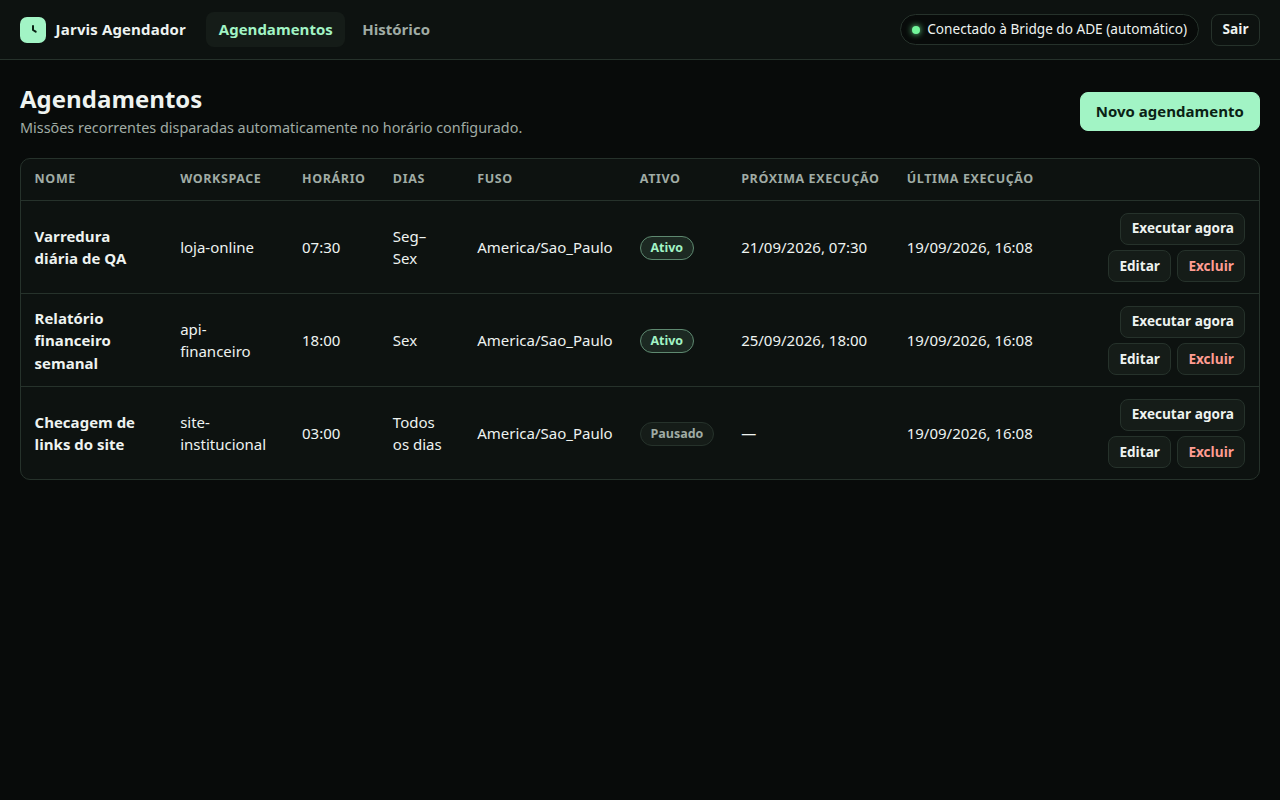
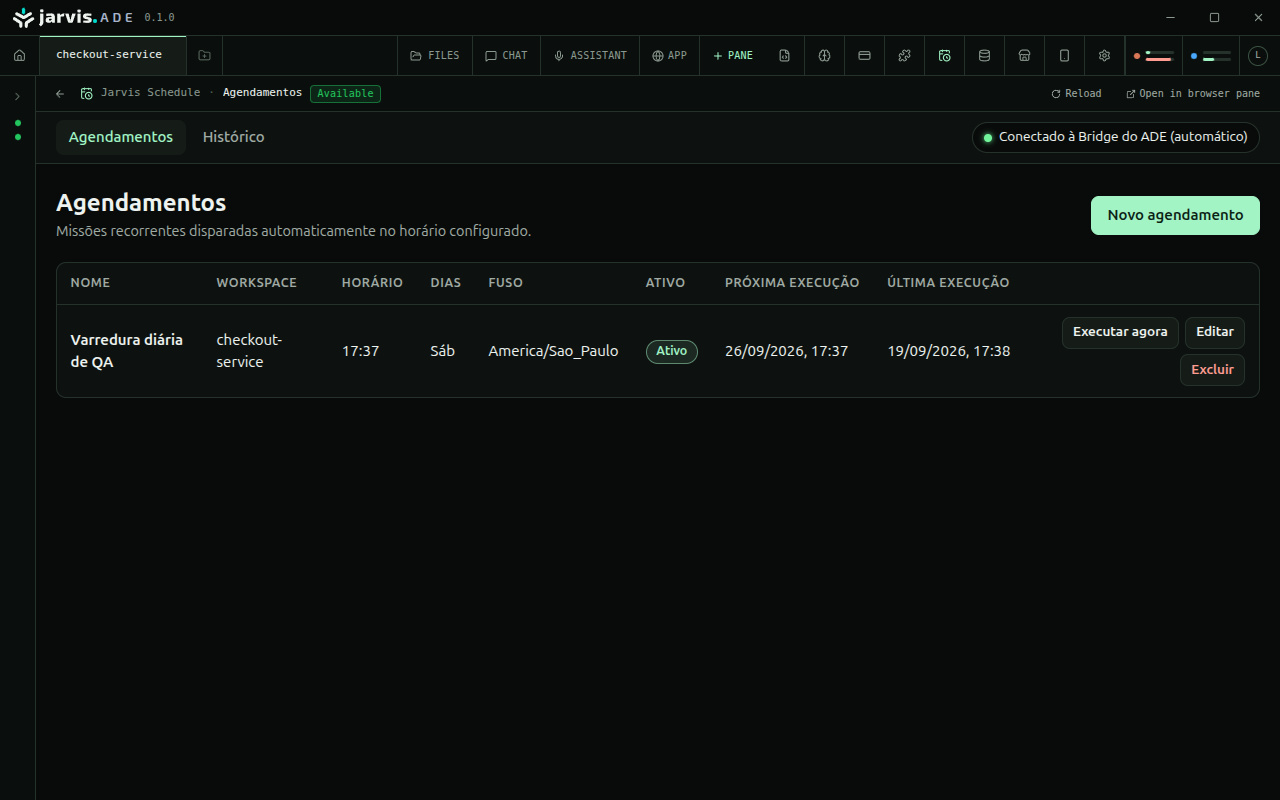
chore(release): 1.0.0 — in-app listing screenshots, responsive tables, CHANGELOG
- marketplace: replace the browser captures with 4 in-app ones (agendamentos, formulário squad/modelos, histórico, plugins instalados); listing.md captions updated, in-app TODO removed
- ui: tables stack into cards by container width (main is a size container, ≤1140px), long names/workspaces wrap on a bounded width, headers/dates wrap, history filter no longer overflows; fixes hidden row actions with ADE's missions sidebar open
- GUIDELINES: stale screenshot-size/validator lines, version 1.0.0
- version 1.0.0 in ade.plugin.json + package.json + lock; CHANGELOG.md (pt-BR); adeVersion stays 0.4.0

diff --git a/ui/app.js b/ui/app.js
@@ -517,16 +517,16 @@ async function schedulesView(main, ctx) {
           { 'data-schedule-id': s.id },
           h(
             'td',
-            { 'data-label': 'Nome' },
+            { 'data-label': 'Nome', class: 'cell-name' },
             h('span', {}, h('span', { class: 'cell-title' }, s.name)),
           ),
-          h('td', { 'data-label': 'Workspace' }, s.workspaceName ?? s.workspaceId),
+          h('td', { 'data-label': 'Workspace', class: 'cell-ws' }, s.workspaceName ?? s.workspaceId),
           h('td', { 'data-label': 'Horário', class: 'nowrap' }, s.time),
           h('td', { 'data-label': 'Dias' }, fmtDays(s.days)),
           h('td', { 'data-label': 'Fuso' }, s.timezone),
           h('td', { 'data-label': 'Ativo' }, s.enabled ? h('span', { class: 'badge badge-ok' }, 'Ativo') : h('span', { class: 'badge' }, 'Pausado')),
-          h('td', { 'data-label': 'Próxima execução', class: 'nowrap' }, s.enabled ? fmtDate(s.nextRunAt) : '—'),
-          h('td', { 'data-label': 'Última execução', class: 'nowrap' }, fmtDate(s.lastRunAt)),
+          h('td', { 'data-label': 'Próxima execução' }, s.enabled ? fmtDate(s.nextRunAt) : '—'),
+          h('td', { 'data-label': 'Última execução' }, fmtDate(s.lastRunAt)),
           h(
             'td',
             { class: 'actions' },
@@ -1085,12 +1085,12 @@ async function runsView(main, ctx, scheduleFilter) {
           h(
             'tr',
             { 'data-run-id': r.id },
-            h('td', { 'data-label': 'Agendamento' }, h('span', { class: 'cell-title' }, r.scheduleName)),
+            h('td', { 'data-label': 'Agendamento', class: 'cell-name' }, h('span', { class: 'cell-title' }, r.scheduleName)),
             h('td', { 'data-label': 'Origem' }, triggerLabel(r.trigger)),
-            h('td', { 'data-label': 'Previsto para', class: 'nowrap' }, fmtDate(r.scheduledFor)),
-            h('td', { 'data-label': 'Disparado em', class: 'nowrap' }, fmtDate(r.dispatchedAt)),
+            h('td', { 'data-label': 'Previsto para' }, fmtDate(r.scheduledFor)),
+            h('td', { 'data-label': 'Disparado em' }, fmtDate(r.dispatchedAt)),
             h('td', { 'data-label': 'Status' }, runBadge(r.status)),
-            h('td', { 'data-label': 'Missão' }, r.missionName ?? '—'),
+            h('td', { 'data-label': 'Missão', class: 'cell-ws' }, r.missionName ?? '—'),
             h('td', { class: 'actions' }, h('a', { class: 'btn btn-sm', href: `#/runs/${enc(r.id)}`, 'aria-label': `Ver detalhes do disparo de ${r.scheduleName}` }, 'Detalhes')),
           ),
         ),

diff --git a/ui/styles.css b/ui/styles.css
@@ -184,6 +184,7 @@ h2 {
 }
 
 main {
+  container: page / inline-size;
   max-width: 1320px;
   margin: 0 auto;
   padding: 1.5rem 1.25rem 4rem;
@@ -313,11 +314,14 @@ input[type='time'] {
   display: flex;
   align-items: center;
   gap: 0.5rem;
+  max-width: 100%;
 }
 .filter select {
   width: auto;
-  min-width: 220px;
+  min-width: 0;
   max-width: 100%;
+  flex: 0 1 auto;
+  text-overflow: ellipsis;
 }
 
 /* ---- cards / alerts ---------------------------------------------------------------- */
@@ -427,7 +431,7 @@ table {
 }
 th,
 td {
-  padding: 0.7rem 0.85rem;
+  padding: 0.7rem 0.7rem;
   text-align: left;
   vertical-align: middle;
   border-bottom: 1px solid var(--border);
@@ -438,7 +442,6 @@ th {
   letter-spacing: 0.05em;
   color: var(--muted);
   font-weight: 650;
-  white-space: nowrap;
 }
 tbody tr:last-child td {
   border-bottom: 0;
@@ -458,6 +461,14 @@ td.actions {
 }
 .cell-title {
   font-weight: 650;
+  overflow-wrap: break-word;
+}
+/* long names/workspaces wrap on a bounded width instead of stretching the table */
+td.cell-name,
+td.cell-ws {
+  min-width: 8rem;
+  max-width: 18rem;
+  overflow-wrap: break-word;
 }
 .cell-sub {
   display: block;
@@ -864,7 +875,36 @@ dialog p {
     text-align: center;
   }
 
-  /* tables collapse into stacked cards, labelled through data-label */
+  .detail-grid {
+    grid-template-columns: 1fr;
+    gap: 0.1rem;
+  }
+  .detail-grid dd {
+    margin-bottom: 0.6rem;
+  }
+  .filter {
+    width: 100%;
+  }
+  .filter select {
+    flex: 1;
+    min-width: 0;
+  }
+  .toasts {
+    justify-items: stretch;
+  }
+  .toast {
+    max-width: none;
+  }
+}
+
+/* Tables collapse into stacked cards, labelled through data-label, when the PAGE (not the window) is narrow:
+   inside ADE the window is wide but the missions sidebar eats ~260px of it, so a viewport breakpoint misses it. */
+@container page (max-width: 1140px) {
+  td.cell-name,
+  td.cell-ws {
+    min-width: 0;
+    max-width: none;
+  }
   .table-wrap {
     border: 0;
     background: transparent;
@@ -926,24 +966,4 @@ dialog p {
     min-width: 0;
   }
 
-  .detail-grid {
-    grid-template-columns: 1fr;
-    gap: 0.1rem;
-  }
-  .detail-grid dd {
-    margin-bottom: 0.6rem;
-  }
-  .filter {
-    width: 100%;
-  }
-  .filter select {
-    flex: 1;
-    min-width: 0;
-  }
-  .toasts {
-    justify-items: stretch;
-  }
-  .toast {
-    max-width: none;
-  }
 }

diff --git a/marketplace/GUIDELINES.md b/marketplace/GUIDELINES.md
@@ -1,6 +1,6 @@
 # Checklist das diretrizes de plugins do Jarvis ADE
 
-Fontes: páginas <https://jarvisade.com/docs/plugins/> (`manifesto`, `protocolo`, `configuracoes`, `boas-praticas`, `publicar`, `marketplace`, `cli`; **não existe** uma página `/docs/plugins/marketplace/guidelines`, essa rota dá 404), `backend/docs/marketplace/DESIGN.md`, `plugin-manifest.schema.ts` e as verificações automáticas de `backend/src/marketplace/checks/plugin-checks.service.ts` (staff-agent). Estado em 2026-09-19, versão 0.1.0.
+Fontes: páginas <https://jarvisade.com/docs/plugins/> (`manifesto`, `protocolo`, `configuracoes`, `boas-praticas`, `publicar`, `marketplace`, `cli`; **não existe** uma página `/docs/plugins/marketplace/guidelines`, essa rota dá 404), `backend/docs/marketplace/DESIGN.md`, `plugin-manifest.schema.ts` e as verificações automáticas de `backend/src/marketplace/checks/plugin-checks.service.ts` (staff-agent). Estado em 2026-09-19, versão 1.0.0.
 
 Legenda: ✅ atendido · ⏳ depende de uma ação de quem publica (nada foi enviado nem publicado).
 
@@ -9,11 +9,11 @@ Legenda: ✅ atendido · ⏳ depende de uma ação de quem publica (nada foi env
 | Verificação | Regra | Estado |
 | --- | --- | --- |
 | `repo-reachable` | repositório GitHub público, URL exata `https://github.com/<dono>/<repo>` | ⏳ o repo `Vidiio-Org/jarvis-schedule-plugin` precisa ser enviado (push) e estar público; a URL já está em `package.json`, no manifesto e na listagem |
-| `manifest-valid` | `ade.plugin.json` na raiz do repo, válido pelo schema | ✅ `jarvis-ade plugins validate .` → válido; único aviso: `contributes.views` desconhecida pelo CLI atual (ver a linha de `views` abaixo) |
+| `manifest-valid` | `ade.plugin.json` na raiz do repo, válido pelo schema | ✅ `jarvis-ade plugins validate .` (CLI do worktree `feature-plugin-host-views`, que conhece `views` e `bridge`) → válido, 0 avisos. O `jarvis-ade` publicado no npm ainda pode avisar `unknown key` em `contributes.views`: é só aviso |
 | `npm-package` / `npm-manifest` | (só se informar pacote npm) o pacote existe, tem `latest` e traz `ade.plugin.json` na raiz | ⏳ publicar `jarvis-plugin-schedule`; `npm pack --dry-run` confirma que o tarball leva `ade.plugin.json` na raiz (`files`) |
 | `npm-repository` | `repository` do pacote aponta para o mesmo repo da listagem | ✅ `git+https://github.com/Vidiio-Org/jarvis-schedule-plugin.git` |
 | `plugin-id-match` | mesmo `id` no manifesto do GitHub e do npm | ✅ um único arquivo, `jarvis-schedule` |
-| `version-consistency` | versão do manifesto = `package.json` = tag | ✅ 0.1.0 nos dois; `scripts/check-release.mjs` confere também a tag `v0.1.0` |
+| `version-consistency` | versão do manifesto = `package.json` = tag | ✅ 1.0.0 nos dois; `scripts/check-release.mjs` confere também a tag `v1.0.0` |
 | `runtime-dependencies` | sem `dependencies` (o instalador só copia arquivos) | ✅ só `devDependencies` |
 | `install-scripts` | sem `preinstall`/`install`/`postinstall` | ✅ nenhum |
 | `npm-keyword` | palavra-chave `jarvis-ade-plugin` | ✅ |
@@ -24,7 +24,7 @@ Legenda: ✅ atendido · ⏳ depende de uma ação de quem publica (nada foi env
 | Regra | Estado |
 | --- | --- |
 | `id` kebab-case `/^[a-z0-9]+(-[a-z0-9]+)*$/` | ✅ `jarvis-schedule` |
-| `name` (≥ 1), `version` semver | ✅ "Jarvis Schedule", `0.1.0` |
+| `name` (≥ 1), `version` semver | ✅ "Jarvis Schedule", `1.0.0` |
 | `description`, `author`, `homepage`, `license` (opcionais, mas exigidos pela nossa tarefa) | ✅ descrição, `Vidiio`, `https://github.com/Vidiio-Org/jarvis-schedule-plugin`, `MIT` |
 | `contributes.settings[].key` `/^[a-zA-Z][a-zA-Z0-9_]*$/`, `type` ∈ string/secret/boolean/number | ✅ 7 configurações, todas camelCase; nenhuma `select` |
 | `default` sempre string, inclusive em número/booleano | ✅ `"4870"`, `"90"`, `"true"` |
@@ -32,7 +32,7 @@ Legenda: ✅ atendido · ⏳ depende de uma ação de quem publica (nada foi env
 | `events`: `[]` ou sem filtro entrega **tudo** (não "nada") | ✅ o plugin não usa eventos de `board.*`/`mission.*` (acompanha as missões pela Bridge); o filtro foi reduzido a `["mission.finished"]` para não receber o `board.snapshot` de todas as missões à toa |
 | Campos obrigatórios (`required: true`) travam o início até serem preenchidos | ✅ nenhuma configuração é obrigatória: `bridgeToken` e `bridgeUrl` são só o fallback de um ADE mais antigo (ADE 0.4.0+ entrega a Bridge em `hello.host.bridge`), `dashboardToken` só serve para abrir o painel num navegador. Sem Bridge do host e sem `bridgeToken`, o plugin emite `error` e o motivo (`ADE_BRIDGE=1` + token) fica no log |
 | Integração com `"bridge": true` | ✅ declarada em `contributes.integrations[scheduler]`; o plugin usa `hello.host.bridge` para toda chamada (REST e SSE), troca as credenciais ao vivo num `hello` repetido e nunca as registra |
-| `contributes.views` (tela nativa "Agendamentos") | ✅ `dashboard`, `icon: calendar-clock`, `integration: scheduler`. ⚠ o validador do CLI ainda não conhece `views` e avisa `unknown key`: é aviso, não erro, e some quando o CLI aprender `views` |
+| `contributes.views` (tela nativa "Agendamentos") | ✅ `dashboard`, `icon: calendar-clock`, `integration: scheduler`; o CLI que conhece `views` valida sem avisos (versões mais antigas do CLI avisam `unknown key`, aviso e não erro) |
 | Segredos: tipo `secret`, nunca em log | ✅ `bridgeToken`, `dashboardToken` são `secret` e não são registrados |
 
 ## Pacote e repositório (`publicar`)
@@ -71,7 +71,7 @@ Legenda: ✅ atendido · ⏳ depende de uma ação de quem publica (nada foi env
 | --- | --- |
 | Nome 2–60, slug 3–39, resumo ≤ 120, categoria válida, ≤ 8 tags (≤ 24 caracteres, `[a-z0-9-]`), descrição ≤ 20.000 | ✅ `marketplace/listing.md` (com as contagens) |
 | Repositório GitHub no formato exato | ✅ |
-| Capa recomendada 1200×630, capturas até 8, PNG/JPEG/WebP até 5 MiB | ✅ `marketplace/cover.png` (1200×630) e 4 capturas 1280×800, todas < 100 KB |
+| Capa recomendada 1200×630, capturas até 8, PNG/JPEG/WebP até 5 MiB | ✅ `marketplace/cover.png` (1200×630) e 4 capturas 1280×800 tiradas dentro do ADE, cada uma com menos de 200 KB |
 | Instalação `npx -y jarvis-ade plugins add <handle>/<slug>` / importação pela UI (npm ou URL git) | ✅ README e listagem descrevem a instalação pelo Marketplace (ícone **Agendamentos**, sem configurar) e a importação por URL git enquanto a listagem não é aprovada; o comando `npx` passa a valer depois da aprovação |
 | Fluxo Pendente → verificações automáticas → aprovação de um admin | ⏳ com quem envia |
 

diff --git a/marketplace/listing.md b/marketplace/listing.md
@@ -18,16 +18,16 @@ Os limites abaixo vêm de `backend/src/marketplace/marketplace.constants.ts` (st
 | **Site** (opcional) | `https://github.com/Vidiio-Org/jarvis-schedule-plugin#readme` | HTTPS |
 | **Licença** | MIT | arquivo `LICENSE` na raiz |
 | **Capa** | `marketplace/cover.png` (1200×630, PNG) | recomendado 1200×630; PNG, JPEG ou WebP, até 5 MiB |
-| **Capturas de tela** | `marketplace/screenshots/*.png` (4 de até 8, PNG, 1280 px de largura; a 02 é a página inteira do formulário, 1280×1905) | até 5 MiB cada, legenda de até 140 caracteres |
+| **Capturas de tela** | `marketplace/screenshots/*.png` (4 de até 8, PNG, 1280×800, dentro do ADE) | até 5 MiB cada, legenda de até 140 caracteres |
 
 ### Legendas das capturas de tela
 
-1. `01-agendamentos.png` — Lista de agendamentos com horário, dias, fuso, próxima e última execução.
-2. `02-novo-agendamento.png` — Formulário completo: briefing, workspace, horário, fuso, squad, dias, anexos, maestro, modelos por agente, stack e E2E.
-3. `03-historico.png` — Histórico de disparos com origem, horário e status (Em execução, Concluído e Falhou).
-4. `04-detalhe-do-disparo.png` — Detalhe de um disparo: resumo final do maestro e tarefas com resultado.
+1. `01-agendamentos.png` — Tela **Agendamentos** dentro do ADE: horário, dias, fuso, próxima e última execução, com Executar agora, Editar e Excluir.
+2. `02-formulario-squad-modelos.png` — Formulário de novo agendamento: modelos permitidos, modelo por agente, stack e fluxo de teste E2E.
+3. `03-historico.png` — Histórico de disparos com origem, horário e status Concluído.
+4. `04-plugins-instalados.png` — Marketplace de Plugins → Instalados, com o Jarvis Schedule em execução e o botão Open Agendamentos.
 
-As capturas foram tiradas do painel de verdade (`dist/index.js` + `ui/`, iniciado como o ADE novo o inicia: Bridge entregue em `hello.host.bridge`) rodando contra a Bridge falsa do repositório (`test/fake-bridge.mjs`), aberto num navegador; os nomes de workspace, briefings e resumos são dados de demonstração. Por isso mostram o cabeçalho "Jarvis Agendador" e o botão **Sair**, que não aparecem na tela dentro do ADE.
+As quatro capturas foram tiradas **dentro do Jarvis ADE** (ADE 0.4.0, plugin instalado pela pasta, Bridge automática), com dados de demonstração: o workspace, o briefing e os resultados são fictícios.
 
 ## Descrição (Markdown, pt-BR)
 
@@ -75,15 +75,3 @@ Código aberto, licença MIT. Documentação completa no [README](https://github
 1. Publicar o pacote npm `jarvis-plugin-schedule` pelo fluxo de tag `vX.Y.Z` (`.github/workflows/publish.yml`, precisa do segredo `NPM_TOKEN`) e enviar o repositório ao GitHub. Sem o pacote, o cadastro vale só pela origem git.
 2. Conferir que `package.json`, `ade.plugin.json` e a tag têm a mesma versão (`npm run check-release`).
 3. Enviar o formulário com os campos acima e as imagens; a listagem entra como *Pendente* até a aprovação de um administrador.
-
-## Pendências (capturas dentro do app)
-
-As capturas atuais mostram o painel num navegador. A card final de E2E deve acrescentar capturas **dentro do ADE** (a lista abaixo é o que falta; quem publica só as adiciona à pasta `marketplace/screenshots/` e às legendas):
-
-- [ ] Barra lateral do ADE com o ícone **Agendamentos** ao lado do de Plugins.
-- [ ] Tela **Agendamentos** aberta dentro do app (sem cabeçalho "Jarvis Agendador" nem botão Sair, com "Conectado à Bridge do ADE (automático)").
-- [ ] Formulário de novo agendamento dentro do app, com squad e seletores de modelo.
-- [ ] Histórico com disparos **Em execução** e **Concluído** dentro do app.
-- [ ] Detalhe de um disparo (resumo do maestro e tarefas) dentro do app.
-- [ ] Marketplace de Plugins → Instalados com o **Jarvis Schedule** instalado e a integração em execução.
-- [ ] Depois de tirar as novas, reordenar: as capturas dentro do app passam a ser as primeiras, as do navegador ficam como apoio ou saem (máximo de 8).

diff --git a/CHANGELOG.md b/CHANGELOG.md
@@ -1,0 +1,25 @@
+# Changelog
+
+Formato baseado em [Keep a Changelog](https://keepachangelog.com/pt-BR/1.1.0/); versionamento [SemVer](https://semver.org/lang/pt-BR/).
+
+## [1.0.0] — 2026-09-19
+
+Primeira versão pública. Requer Jarvis ADE **0.4.0 ou superior** e Node.js 22+.
+
+### Adicionado
+
+- **Agendamentos recorrentes**: briefing, workspace, horário, dias da semana e fuso horário (com tratamento de horário de verão); na hora combinada o plugin abre uma missão autônoma no workspace escolhido.
+- **Missões 100% autônomas**: o briefing recebe um bloco fixo dizendo ao maestro que ninguém responderá (nunca chamar `ask_user`, decidir sozinho e encerrar com `mission_finish` e um resumo completo).
+- **Opções completas do briefing**: squad, maestro, modelos permitidos e modelo por agente, anexos, stack (backend, frontend, mobile, infra, outros) e fluxo de teste E2E visível.
+- **Histórico de disparos** com origem (agendado ou manual), horário previsto e disparado, status (Em execução, Concluído, Falhou, Perdido), resumo final do maestro, tarefas com resultado e custo.
+- **Executar agora** para testar um agendamento sem esperar o horário.
+- **Nunca dispara o mesmo horário duas vezes**, mesmo com reinício do ADE ou do plugin; horário perdido (ADE fechado por mais de 15 minutos) é registrado como **Perdido**.
+- **Tela nativa "Agendamentos" dentro do ADE** (ícone na barra lateral), sem login e sem token: o ADE autentica o painel (`hello.host.viewToken`).
+- **Bridge automática**: com `"bridge": true` no manifesto, o ADE 0.4.0+ inicia a Bridge e entrega o acesso (`hello.host.bridge`); troca de credenciais ao vivo, sem reiniciar. `bridgeUrl` e `bridgeToken` ficam só como alternativa para ADE mais antigo.
+- **Painel web local** em `127.0.0.1` (porta configurável) para uso em navegador, protegido por `dashboardToken`, com recusa de `Host` não local e `Content-Security-Policy` com `frame-ancestors 'none'`.
+- Configurações: porta do painel, fuso padrão, retenção do histórico (90 dias) e chave geral para ligar/desligar o agendador.
+
+### Corrigido
+
+- Tabela de agendamentos e de histórico com nomes longos: no ADE com a barra lateral de missões aberta, as ações ficavam escondidas atrás de uma barra de rolagem horizontal. As tabelas agora quebram linha nos textos longos, cabem em telas a partir de 900 px e viram cartões empilhados quando a área do painel é estreita (até 1140 px de largura útil).
+- Filtro de agendamento do histórico não estoura mais a largura da página quando há nomes muito longos.
